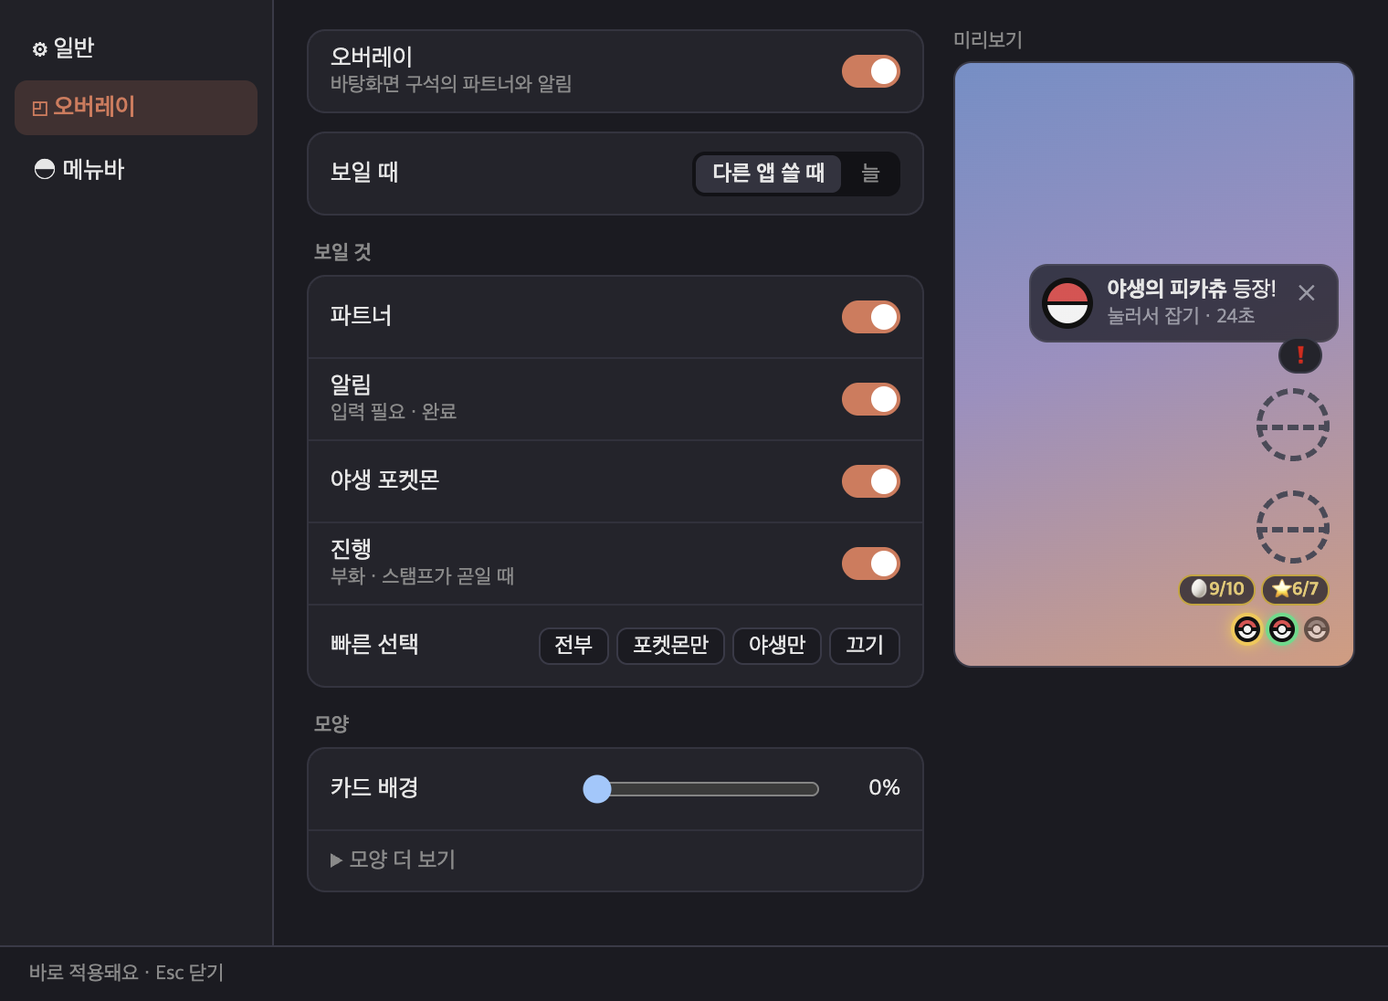
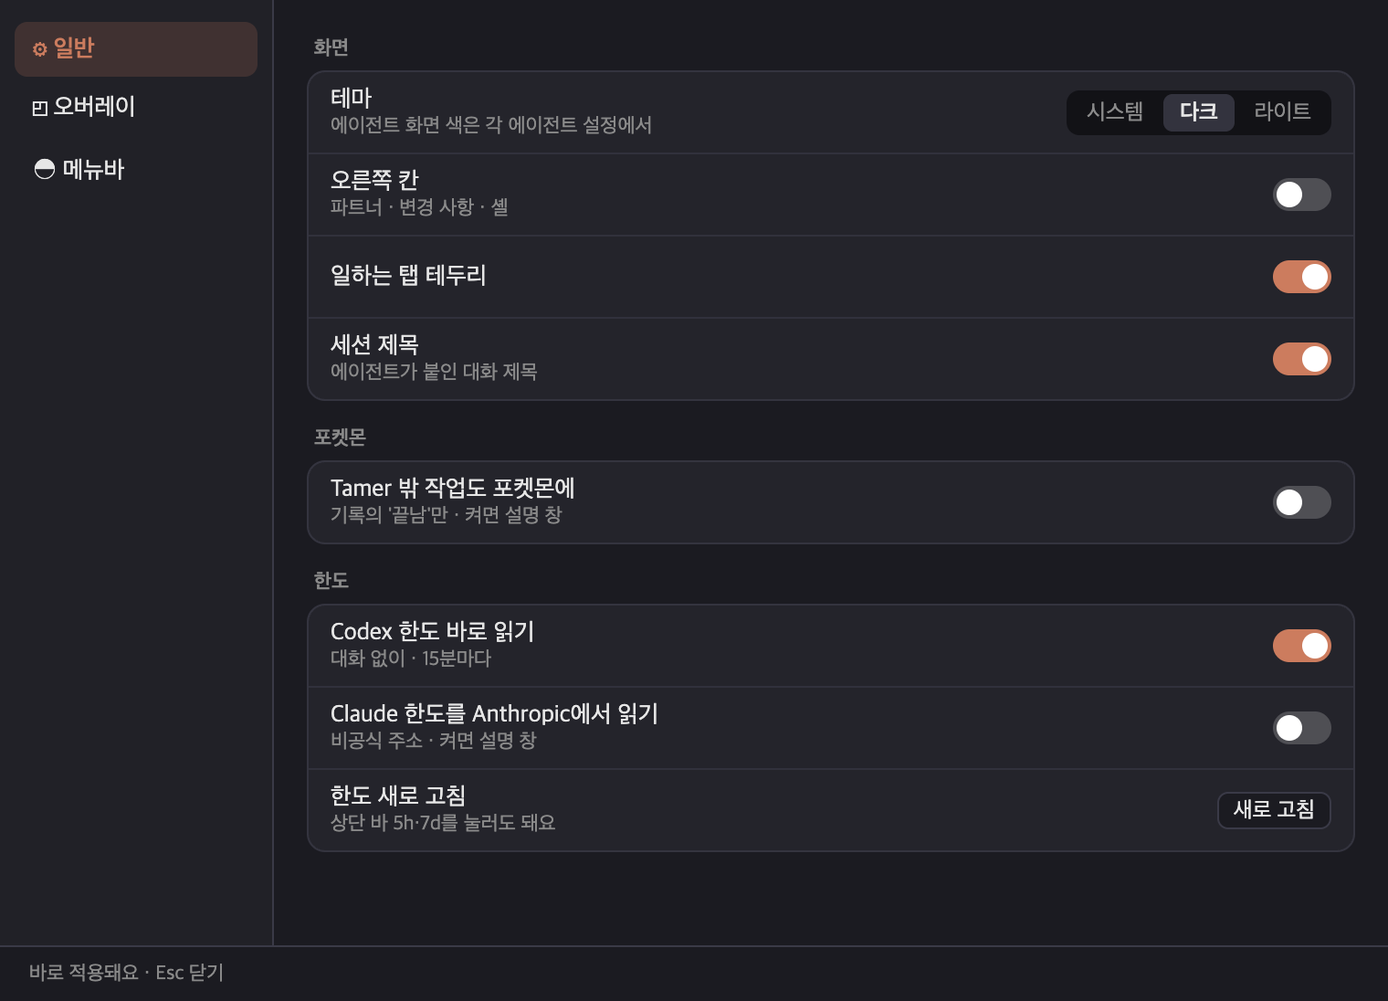
README: polished for the release (commas after connective endings, a few sentences split where a comma alone misread, "가지고 있으면" → "있으면" — facts, commands, shortcuts and tables unchanged), tour pictures retaken on the current build (⌘G picker, shell names and conversation titles, settings · 일반 — no P

diff --git a/README.md b/README.md
@@ -3,7 +3,7 @@
 <h1 align="center">Tamer</h1>
 
 <p align="center"><b>AI 코딩 에이전트를 길들이는 터미널</b><br>
-Claude Code · Codex · Gemini CLI · OpenCode를 폴더마다 셸과 함께 열고, 지금 무엇을 하는지·입력이 필요한지·끝났는지를 한눈에.</p>
+Claude Code · Codex · Gemini CLI · OpenCode를 폴더마다 셸과 함께 열고 지금 무엇을 하는지·입력이 필요한지·끝났는지를 한눈에.</p>
 
 <p align="center">
 <a href="../../releases/latest"><img alt="release" src="https://img.shields.io/github/v/release/Fox-Yeom/tamer?include_prereleases&label=release&color=orange"></a>
@@ -20,7 +20,7 @@ Claude Code · Codex · Gemini CLI · OpenCode를 폴더마다 셸과 함께 열
 - **에이전트가 지금 뭘 하는지 바로 보입니다**: 생각 중 · 파일 편집 · 명령 실행 · **입력 필요** · 완료 · 중단 · 실패를 탭과 바탕화면 오버레이에 표시합니다. 다른 앱을 쓰고 있어도 알 수 있어요.
 - **에이전트를 가리지 않습니다**: 쓰던 터미널처럼 셸에서 `claude`, `codex`, `gemini`, `opencode`를 그대로 치면 됩니다. 설치 방식(nvm·Homebrew·npm…)이 달라도 내 터미널에서 되면 Tamer에서도 됩니다.
 - **사용량이 늘 보입니다**: 모델 · 컨텍스트 · 5시간/7일 한도를 상단 막대로 표시합니다.
-- **재미도 조금**: 작업을 끝낼 때마다 파티의 포켓몬이 차례로 레벨을 올리고 진화하며, 가끔 야생 포켓몬이 나타납니다(비공식 팬 기능).
+- **재미도 조금**: 작업을 끝낼 때마다 파티의 포켓몬이 차례로 레벨을 올리고 진화하며 가끔 야생 포켓몬이 나타납니다(비공식 팬 기능).
 
 ## 어떻게 동작하나
 1. 폴더를 열면 큰 칸에 **셸**이 열립니다(오른쪽 아래에도 셸 하나).
@@ -37,15 +37,15 @@ Claude Code · Codex · Gemini CLI · OpenCode를 폴더마다 셸과 함께 열
 |---|
 | <img src="assets/tour-settings.png" width="560"> |
 
-- **셸 이름 · 대화 제목**: 셸이 둘 이상이면 왼쪽 셸 줄에 마우스를 올려 두세요 — 펼쳐지며 셸마다 이름 · 에이전트 · 상태가 보여요(마우스를 빼면 접힘). 이름은 직접 붙이거나(더블클릭 또는 우클릭 → 이름 바꾸기), 없으면 Claude Code · Codex가 붙인 대화 제목. 셸이 하나면 칸 제목줄에. 대화 내용은 읽지 않고, 설정 → 일반 → **세션 제목**으로 끌 수 있어요
+- **셸 이름 · 대화 제목**: 셸이 둘 이상이면 왼쪽 셸 줄에 마우스를 올려 두세요 — 펼쳐지며 셸마다 이름 · 에이전트 · 상태가 보여요(마우스를 빼면 접힘). 이름은 직접 붙이거나(더블클릭 또는 우클릭 → 이름 바꾸기), 없으면 Claude Code · Codex가 붙인 대화 제목. 셸이 하나면 칸 제목줄에. 대화 내용은 읽지 않아요. 설정 → 일반 → **세션 제목**으로 끌 수 있어요
 
 - **에이전트 연결 창**(처음 한 번 자동, 이후 ⌘G → "⚙ 에이전트 연결 상태…"): 에이전트마다 연결 상태와 설치 위치, 없는 에이전트는 설치 명령
-- **셸에서 직접 친 Claude도 연결**(선택): 연결 창의 버튼 한 번이면 셸에 `claude`를 쳐도 ⌘G처럼 5시간 · 주간 한도와 ctx %가 보여요. 셸 설정 파일(`~/.zshrc` 등) 끝에 **Tamer 셸 안에서만 동작하는 한 줄**을 넣고(넣기 전 보여 주고 물어봄), 같은 창에서 해제할 수 있어요. 연결 전엔 상단 바에 `5h·7d ?`, ctx는 `≈` 추정치
+- **셸에서 직접 친 Claude도 연결**(선택): 연결 창의 버튼 한 번이면 셸에 `claude`를 쳐도 ⌘G처럼 5시간 · 주간 한도와 ctx %가 보여요. 셸 설정 파일(`~/.zshrc` 등) 끝에 **Tamer 셸 안에서만 동작하는 한 줄**을 넣고(넣기 전 보여 주고 물어봄) 같은 창에서 해제할 수 있어요. 연결 전엔 상단 바에 `5h·7d ?`, ctx는 `≈` 추정치
 - **변경 사항 칸**: 에이전트가 바꾼 파일 목록 · 나란히 비교 · 파일 단위 되돌리기(git 폴더). 제목에 지금 브랜치와 올릴·받을 커밋 수(`⎇ main ↑2`)
-- **다른 폴더에서 띄운 에이전트**: 셸에서 `cd`로 옮겨 띄워도 그 위치에서 상태·사용량을 따라가고, 탭 폴더 밖이면 안내 줄에서 **새 탭으로 옮기기**(실행 중인 채로)
+- **다른 폴더에서 띄운 에이전트**: 셸에서 `cd`로 옮겨 띄워도 그 위치에서 상태·사용량을 따라가고 탭 폴더 밖이면 안내 줄에서 **새 탭으로 옮기기**(실행 중인 채로)
 - **바탕화면 오버레이**: 다른 앱을 쓰는 동안 "입력 필요", "셸 2 완료!" 같은 알림. 설정에서 끄거나 보일 것만 고를 수 있어요(포켓몬만 · 야생 포켓몬만, 카드 배경 투명도, 그림자). 카드 배경은 기본 0%라 처음엔 글자 없이 메인 파트너와 탭마다 몬스터볼(빛남 작업 중 · 빨강 입력 필요 · 초록 완료)만 — 마우스를 올리면 "폴더 — 상태", 배경을 올리면 글자 카드. "보일 때"를 "늘"로 하면 Tamer가 앞에 있어도 보여요. 창을 닫아 탭이 없으면 파티 카드(누르면 포켓몬 창)
 - **오른쪽 칸 접기(⌘\\)**: 파트너·변경 사항·셸 칸을 접으면 에이전트 칸이 창 전체 — 그동안 파트너는 바탕화면 오버레이로
-- **메뉴바 아이콘**: 화면 맨 위 몬스터볼 — 또는 **메인 파트너**(설정 → 메뉴바 → 아이콘): 늘 움직이고 일하는 동안 빨라지며, 입력이 필요하면 빨간 !, 야생이 나오면 발밑에 풀숲. 옆에는 기다리는 탭 수, 또는 5시간 · 주간 남은 % `97 · 81%`(50% 이하 노랑 · 20% 이하 빨강). **왼쪽 클릭**: 작은 대시보드(홈: 메인 파트너·파티·사용 한도, 야생이 나오면 그 자리에서 잡기 · 작업: 오늘·부화기·Tamer 탭 — 줄을 누르면 포켓몬 창의 그 자리로) · **오른쪽 클릭**: 메뉴(탭 상태·한도·`↻ 한도 새로 고침`·오버레이와 테마 빠른 설정·설정 창·포켓몬 창 열기)
+- **메뉴바 아이콘**: 화면 맨 위 몬스터볼 — 또는 **메인 파트너**(설정 → 메뉴바 → 아이콘): 늘 움직이고 일하는 동안 빨라지며 입력이 필요하면 빨간 !, 야생이 나오면 발밑에 풀숲. 옆에는 기다리는 탭 수, 또는 5시간 · 주간 남은 % `97 · 81%`(50% 이하 노랑 · 20% 이하 빨강). **왼쪽 클릭**: 작은 대시보드(홈: 메인 파트너·파티·사용 한도, 야생이 나오면 그 자리에서 잡기 · 작업: 오늘·부화기·Tamer 탭 — 줄을 누르면 포켓몬 창의 그 자리로) · **오른쪽 클릭**: 메뉴(탭 상태·한도·`↻ 한도 새로 고침`·오버레이와 테마 빠른 설정·설정 창·포켓몬 창 열기)
 - **Tamer 밖 작업도 포켓몬에(선택, 처음 한 번 물어봄)**: 다른 터미널·Claude 앱의 Code·Codex 앱에서 끝낸 Claude Code·Codex 작업도 탭과 같은 규칙으로 레벨·코인·야생에 반영 — 탭 작업처럼 파티가 차례로 받아 커요. Claude 앱·ChatGPT의 일반 채팅은 이 맥에 기록이 없어 셀 수 없어요
 - **백그라운드**: 창을 닫아도 메뉴바에 남아요(Dock 아이콘은 숨김) — 터미널은 끝나고 대시보드·한도·야생은 계속, 창을 다시 열면 지난 탭이 돌아와요. 완전히 끄기는 ⌘Q · 메뉴바 대시보드나 메뉴의 종료. 설정에서 끄거나 "로그인할 때 열기"를 켤 수 있어요
 - **대화 없이 한도 보기**: Codex는 Codex 앱 서버에 계정 한도만 물어봐요(15분마다, 대화 안 함). Claude는 **켠 경우에만**(처음 한 번 물어봐요) Anthropic에서 사용률을 읽어요 — 아래 "데이터와 개인정보". 상단 바 5h·7d를 누르면 바로 새로 고침
@@ -60,7 +60,7 @@ Claude Code · Codex · Gemini CLI · OpenCode를 폴더마다 셸과 함께 열
 - **비용 표시**: Claude는 상단 막대에 비용, 셸에서 직접 띄운 Claude·Codex는 토큰 수 × API 가격으로 계산한 추정치 `≈$`
 
 ## 포켓몬 파트너 (비공식 팬 기능)
-최대 5마리의 **파티**가 있어요. 어디서 작업을 끝내든(Tamer의 어느 탭이든, 켜 두면 Tamer 밖 작업도) 파티가 차례로 한 마리씩 레벨을 올리고 원작 조건대로 진화해요. 파티 1번은 **메인 파트너** — 모든 탭의 파트너 칸 · 바탕화면 오버레이 · 메뉴바에 같은 한 마리가 보여요. 가끔 야생 포켓몬이 나타나고(⌘B로 몬스터볼, 잡으면 **파티에 넣기**), 다른 앱을 쓰는 중이면 바탕화면에 작은 알림이 떠서 누르면 알림 옆 작은 창에서 바로 잡아요(Tamer 창을 열지 않아요).
+최대 5마리의 **파티**가 있어요. 어디서 작업을 끝내든(Tamer의 어느 탭이든, 켜 두면 Tamer 밖 작업도) 파티가 차례로 한 마리씩 레벨을 올리고 원작 조건대로 진화해요. 파티 1번은 **메인 파트너** — 모든 탭의 파트너 칸 · 바탕화면 오버레이 · 메뉴바에 같은 한 마리가 보여요. 가끔 야생 포켓몬이 나타나고(⌘B로 몬스터볼, 잡으면 **파티에 넣기**) 다른 앱을 쓰는 중이면 바탕화면에 작은 알림이 떠서 누르면 알림 옆 작은 창에서 바로 잡아요(Tamer 창을 열지 않아요).
 
 - **포켓몬 고르기 창**: 처음 켜면 한 번 저절로 떠요 — 스타터 셋 중 하나(1 · 2 · 3, Enter)를 고르면 메인 파트너가 돼요. 파티가 비면 박스의 포켓몬을 골라 파티에 넣어요. 그 밖엔 "포켓몬이 없어요 **[포켓몬 고르기]**" 단추로 열어요
 
@@ -68,11 +68,11 @@ Claude Code · Codex · Gemini CLI · OpenCode를 폴더마다 셸과 함께 열
 - **🏠 홈(⌘P)**: 메인 파트너, 오늘 끝낸 작업 수 · 🔥 며칠 연속 · 최근 7일, 부화기(사용 한도는 메뉴바 대시보드와 상단 바에)
 - **🎒 내 포켓몬(M)**: 맨 위 **파티 줄**(5칸 — 1번 메인 · 다음 차례 표시)에서 파티를 넣고 빼고 메인을 정해요. 아래엔 잡은 개체를 카드로(레벨 · 다음 진화 레벨 · 파티 몇 번인지), 최근 잡은 순 · 번호 · 이름 · 레벨 · 파티 먼저 정렬. 상세에 어디서 · 어떤 에이전트 작업 중에 잡았는지, 진화 이력이 보여요
 - **📕 도감(⌘D)**: 만난·잡은 포켓몬, 위쪽 "새로 잡은" 줄(24시간 안), NEW = 아직 안 본 것
-- **🪙 포켓코인 · 🛒 상점(S) · 👜 가방(I)**: 작업을 끝낼 때마다 코인이 쌓이고(하루 상한 있음), 상점에서 슈퍼볼·하이퍼볼·마스터볼·이상한사탕·향을 사요. 산 볼은 야생 카드에서 골라 던지고, 사탕은 레벨 +1, 향은 1시간 동안 야생이 두 배. 실제 돈과는 상관없어요
+- **🪙 포켓코인 · 🛒 상점(S) · 👜 가방(I)**: 작업을 끝낼 때마다 코인이 쌓이고(하루 상한 있음) 상점에서 슈퍼볼·하이퍼볼·마스터볼·이상한사탕·향을 사요. 산 볼은 야생 카드에서 골라 던지고 사탕은 레벨 +1, 향은 1시간 동안 야생이 두 배. 실제 돈과는 상관없어요
 - **⭐ 연구 스탬프 · 주간 대발견**: 작업을 끝낸 날마다 🏠 홈에 스탬프 하나(연속이 아니어도 돼요), 7개가 모이면 전설 포켓몬과 확정으로 만나요 — 도망가지 않고 앱을 다시 켜도 남아요. 상점의 전설의 향으로 다음 전설을 고를 수 있어요
 - **🥚 알 · 🎓 졸업**: 상점에서 산 알을 부화기에 넣으면 어느 폴더든 작업을 끝낼 때마다 부화가 가까워져요. Lv 100이 된 포켓몬은 졸업하고 코인과 알을 받아요 — 파티에 두고 메인 파트너로 계속 함께해도 돼요
-- **💎 진화의 돌 · 🔗 연결의끈 · ✨ 빛나는부적**: 진화의 돌로 돌·도구로 진화하는 포켓몬을 바로 진화시키고, 이브이처럼 갈래가 있으면 직접 골라요. 교환으로 진화하는 포켓몬(근육몬 · 윤겔라 · 고우스트 …)은 연결의끈으로. 빛나는부적을 가지고 있으면 이로치(✨)가 두 배로 자주 나와요
-- **전설의 길 · 환상 리서치**: 세대 도감을 채우면 그 세대 전설이 대발견에 열리고, 리서치 "뮤를 찾아서"를 끝내면 뮤를 만나요
+- **💎 진화의 돌 · 🔗 연결의끈 · ✨ 빛나는부적**: 진화의 돌로 돌·도구로 진화하는 포켓몬을 바로 진화시키고 이브이처럼 갈래가 있으면 직접 골라요. 교환으로 진화하는 포켓몬(근육몬 · 윤겔라 · 고우스트 …)은 연결의끈으로. 빛나는부적이 있으면 이로치(✨)가 두 배로 자주 나와요
+- **전설의 길 · 환상 리서치**: 세대 도감을 채우면 그 세대 전설이 대발견에 열리고 리서치 "뮤를 찾아서"를 끝내면 뮤를 만나요
 - **검색**(`/` 또는 ⌘F, 포켓몬 GO 검색어처럼): 이름 · 번호 `25` · 범위 `1-151` · 타입 `불꽃` · 지역 `관동` · `new` · `✨` · `잡음` · `파티` · `전설` · `환상` · `age0`(24시간 안). `&` 그리고 · `,` 또는 · `!` 제외 — 예: `불꽃,물&!잡음`. 결과만 보여요
 - 잡은 뒤 야생 카드의 **📕 도감에서 보기**를 누르면 도감에서 그 포켓몬이 열려요
 - 메뉴바 대시보드에서 파티 그림을 누르면 바로 메인 파트너가 돼요
@@ -123,25 +123,25 @@ Claude Code · Codex · Gemini CLI · OpenCode를 폴더마다 셸과 함께 열
 ## 데이터와 개인정보
 - 모든 데이터는 **이 맥에만** 있습니다: `~/.cache/tamer/`(폴더 기록, 포켓몬·파티·도감, 포켓코인 기록(하루별 합계만), 상태 파일), `~/Library/Application Support/Tamer/`(창 설정). 데이터 파일이 깨져 읽히지 않으면 덮어쓰기 전에 원본을 `~/.cache/tamer/backup/corrupt/`에 남겨 둡니다
 - Tamer는 사용자 데이터(폴더·파일·대화·사용량 기록)를 밖으로 보내지 않습니다. 인터넷은 받기에만 씁니다: 포켓몬 이미지·이름(PokéAPI, GitHub의 스프라이트), `≈$` 비용 추정용 모델 가격표(GitHub의 LiteLLM 가격표, 필요할 때 하루 한 번).
-- **Tamer 밖 작업(선택, 처음에 물어봄)**: 켜면 Claude Code·Codex가 이 맥에 남기는 기록(`~/.claude/projects` · `~/.codex/sessions`)에서 '작업이 끝났다'는 줄의 폴더·걸린 시간·실행한 곳과, 오늘 쓴 토큰 수·모델 이름(메뉴바 대시보드의 오늘 사용량)만 읽어요. 대화 내용·명령·파일은 읽지 않고, 읽은 것을 저장하거나 보내지 않아요(어디까지 읽었는지도 메모리에만). Tamer가 켜져 있는 동안만 세요.
-- **Claude 한도 바로 읽기(선택, 기본은 처음에 물어봄)**: 켜면 Claude Code의 로그인 정보를 macOS 키체인에서 읽어 **Anthropic에 로그인 토큰을 담아** 이 계정의 5시간·주간 사용률만 받아 와요(켤 때·Tamer가 뜰 때·새로 고침 때·15분마다). 키체인은 Tamer 안의 `cvim-core`가 직접 읽고(그래서 "항상 허용"은 Tamer에게만 붙어요) 로그인 정보 중 접근 토큰만 꺼내요. 토큰은 메모리에만 두고 저장·기록하지 않으며 Anthropic 외에는 보내지 않아요. 이 주소는 **공개되지 않은(비공식) 주소**라 바뀌거나 막힐 수 있고, Anthropic 약관상 허용되는지는 확인하지 못했어요. 켤 때·Tamer가 뜰 때·로그인이 만료됐을 때·새로 고침을 누를 때 macOS가 키체인 확인 창을 띄울 수 있어요(거부하면 그 실행 동안 다시 묻지 않아요). 끄려면 설정 › 일반 › 한도. Codex 한도는 Codex 프로그램이 직접 받아 오고, Tamer는 Codex 로그인 정보를 읽지 않아요.
-- 에이전트 **대화 내용은 저장하지 않습니다.** 상태 표시를 위해 이벤트 종류 · 도구 이름 · 모델 이름 · 토큰 수를 읽고, 이 맥에 남기는 것은 이벤트 종류 · 도구 이름 · "입력 필요/쉬는 중" 같은 종류 값뿐입니다(7일 뒤 정리). 에이전트가 다룬 파일 경로 · 명령 · 메시지 글은 남기지 않습니다.
-- **세션 제목**(켜져 있을 때): Claude Code 대화 기록에서는 제목 줄(`ai-title` 등)만, Codex는 세션 목록 `~/.codex/session_index.jsonl`의 제목만 읽고, 터미널 창 제목도 씁니다. 제목은 메모리에만 두고, 직접 붙인 셸 이름만 탭 복원용으로 이 맥에 남아요. 끄면 읽지 않아요.
-- 에이전트는 내 터미널과 같은 환경으로 실행됩니다(시작할 때 셸 환경을 한 번 읽고, 메모리에만 둠).
-- Claude는 Tamer가 띄울 때(또는 직접 켠 "셸에서 친 Claude도 연결"이 있을 때 Tamer 셸 안에서만) 상태 표시용 설정이 붙고, `~/.claude/settings.json`은 건드리지 않습니다. 연결을 켜면 셸 설정 파일에 표시된 블록 하나가 들어가고(사본은 `~/.cache/tamer/backup/shell-rc`), 해제하면 그 블록만 빠집니다.
+- **Tamer 밖 작업(선택, 처음에 물어봄)**: 켜면 Claude Code·Codex가 이 맥에 남기는 기록(`~/.claude/projects` · `~/.codex/sessions`)에서 '작업이 끝났다'는 줄의 폴더·걸린 시간·실행한 곳과, 오늘 쓴 토큰 수·모델 이름(메뉴바 대시보드의 오늘 사용량)만 읽어요. 대화 내용·명령·파일은 읽지 않아요. 읽은 것을 저장하거나 보내지 않아요(어디까지 읽었는지도 메모리에만). Tamer가 켜져 있는 동안만 세요.
+- **Claude 한도 바로 읽기(선택, 기본은 처음에 물어봄)**: 켜면 Claude Code의 로그인 정보를 macOS 키체인에서 읽어 **Anthropic에 로그인 토큰을 담아** 이 계정의 5시간·주간 사용률만 받아 와요(켤 때·Tamer가 뜰 때·새로 고침 때·15분마다). 키체인은 Tamer 안의 `cvim-core`가 직접 읽고(그래서 "항상 허용"은 Tamer에게만 붙어요) 로그인 정보 중 접근 토큰만 꺼내요. 토큰은 메모리에만 두고 저장·기록하지 않으며 Anthropic 외에는 보내지 않아요. 이 주소는 **공개되지 않은(비공식) 주소**라 바뀌거나 막힐 수 있고 Anthropic 약관상 허용되는지는 확인하지 못했어요. 켤 때·Tamer가 뜰 때·로그인이 만료됐을 때·새로 고침을 누를 때 macOS가 키체인 확인 창을 띄울 수 있어요(거부하면 그 실행 동안 다시 묻지 않아요). 끄려면 설정 › 일반 › 한도. Codex 한도는 Codex 프로그램이 직접 받아 오고 Tamer는 Codex 로그인 정보를 읽지 않아요.
+- 에이전트 **대화 내용은 저장하지 않습니다.** 상태 표시를 위해 이벤트 종류 · 도구 이름 · 모델 이름 · 토큰 수를 읽습니다. 이 맥에 남기는 것은 이벤트 종류 · 도구 이름 · "입력 필요/쉬는 중" 같은 종류 값뿐입니다(7일 뒤 정리). 에이전트가 다룬 파일 경로 · 명령 · 메시지 글은 남기지 않습니다.
+- **세션 제목**(켜져 있을 때): Claude Code 대화 기록에서는 제목 줄(`ai-title` 등)만, Codex는 세션 목록 `~/.codex/session_index.jsonl`의 제목만 읽고 터미널 창 제목도 씁니다. 제목은 메모리에만 두고 직접 붙인 셸 이름만 탭 복원용으로 이 맥에 남아요. 끄면 읽지 않아요.
+- 에이전트는 내 터미널과 같은 환경으로 실행됩니다(시작할 때 셸 환경을 한 번 읽고 메모리에만 둠).
+- Claude는 Tamer가 띄울 때(또는 직접 켠 "셸에서 친 Claude도 연결"이 있을 때 Tamer 셸 안에서만) 상태 표시용 설정이 붙고 `~/.claude/settings.json`은 건드리지 않습니다. 연결을 켜면 셸 설정 파일에 표시된 블록 하나가 들어가고(사본은 `~/.cache/tamer/backup/shell-rc`) 해제하면 그 블록만 빠집니다.
 
 ## 피드백 · 문제 보고
 - **GitHub Issues**: 이 저장소의 [Issues](../../issues)에 바로 써 주세요(GitHub 계정 필요). 이슈는 **누구나 볼 수 있으니** 이름 · 메일 · 회사 · 프로젝트 이름 같은 개인 정보는 넣지 마세요.
 - **메일**: GitHub 계정이 없거나 공개하기 싫은 내용이면 메뉴 **Tamer → 피드백 보내기…** → 메일(**yeomjae5766@gmail.com**) 초안이 열립니다. 받은 메일은 개인 정보를 뺀 뒤 Issues에 옮겨 적어요.
-- 문제가 있었다면 메뉴 **Tamer → 진단 정보 복사** 후 이슈나 메일에 붙여 주세요. 버전 · macOS · 에이전트 연결 상태 · 최근 앱 기록이 들어가고, 대화 내용 · 명령어 · 파일 이름은 없으며 폴더 이름은 "폴더1"처럼 가려집니다.
+- 문제가 있었다면 메뉴 **Tamer → 진단 정보 복사** 후 이슈나 메일에 붙여 주세요. 버전 · macOS · 에이전트 연결 상태 · 최근 앱 기록이 들어가고 대화 내용 · 명령어 · 파일 이름은 없으며 폴더 이름은 "폴더1"처럼 가려집니다.
 - 적어 주시면 좋은 것: 무엇을 했고 → 무엇을 기대했고 → 무엇이 보였는지, 스크린샷(Tamer 창만)
 
 ## 알려진 문제
 - 새 버전을 **처음** 열 때 macOS가 앱을 검사해서 10~20초 걸릴 수 있어요(Apple 공증 전 베타라서). 두 번째부터는 1~2초예요.
-- 셸 설정(`~/.zshrc`)이 오래 걸리면 창·탭은 바로 뜨지만, 에이전트 시작(⌘G 목록 포함)은 셸 설정을 다 읽을 때까지(최대 15초) 기다려요. 그래도 못 읽으면 알림이 뜨고 에이전트가 일부 환경 변수 없이 실행될 수 있어요.
+- 셸 설정(`~/.zshrc`)이 오래 걸리면 창·탭은 바로 뜨지만 에이전트 시작(⌘G 목록 포함)은 셸 설정을 다 읽을 때까지(최대 15초) 기다려요. 그래도 못 읽으면 알림이 뜨고 에이전트가 일부 환경 변수 없이 실행될 수 있어요.
 - 셸을 연 직후(3초 안)에 에이전트로 바꾸면 시작이 조금 늦어요(셸 시작이 끝난 뒤 바꿈).
 - 셸에서 직접 띄운 Claude·Codex의 비용은 토큰 수 × API 가격으로 계산한 추정치(`≈$`)예요(5h·7d는 지난 값 — Claude 한도 바로 읽기를 켜면 대화 없이도 새 값).
-- Claude 한도 바로 읽기는 공개되지 않은 주소를 써서, Anthropic이 바꾸면 갑자기 안 될 수 있어요(그때는 응답할 때 받은 값으로 돌아가요). 키체인 확인 창에서 거부했거나 로그인이 만료된 채면 그 실행 동안은 눌러야(메뉴바 `↻ 한도 새로 고침` 또는 상단 바 5h·7d) 다시 읽어요.
+- Claude 한도 바로 읽기는 공개되지 않은 주소를 써서 Anthropic이 바꾸면 갑자기 안 될 수 있어요(그때는 응답할 때 받은 값으로 돌아가요). 키체인 확인 창에서 거부했거나 로그인이 만료된 채면 그 실행 동안은 눌러야(메뉴바 `↻ 한도 새로 고침` 또는 상단 바 5h·7d) 다시 읽어요.
 - Windows · Linux는 아직 지원하지 않습니다.
 
 ## 지우기
